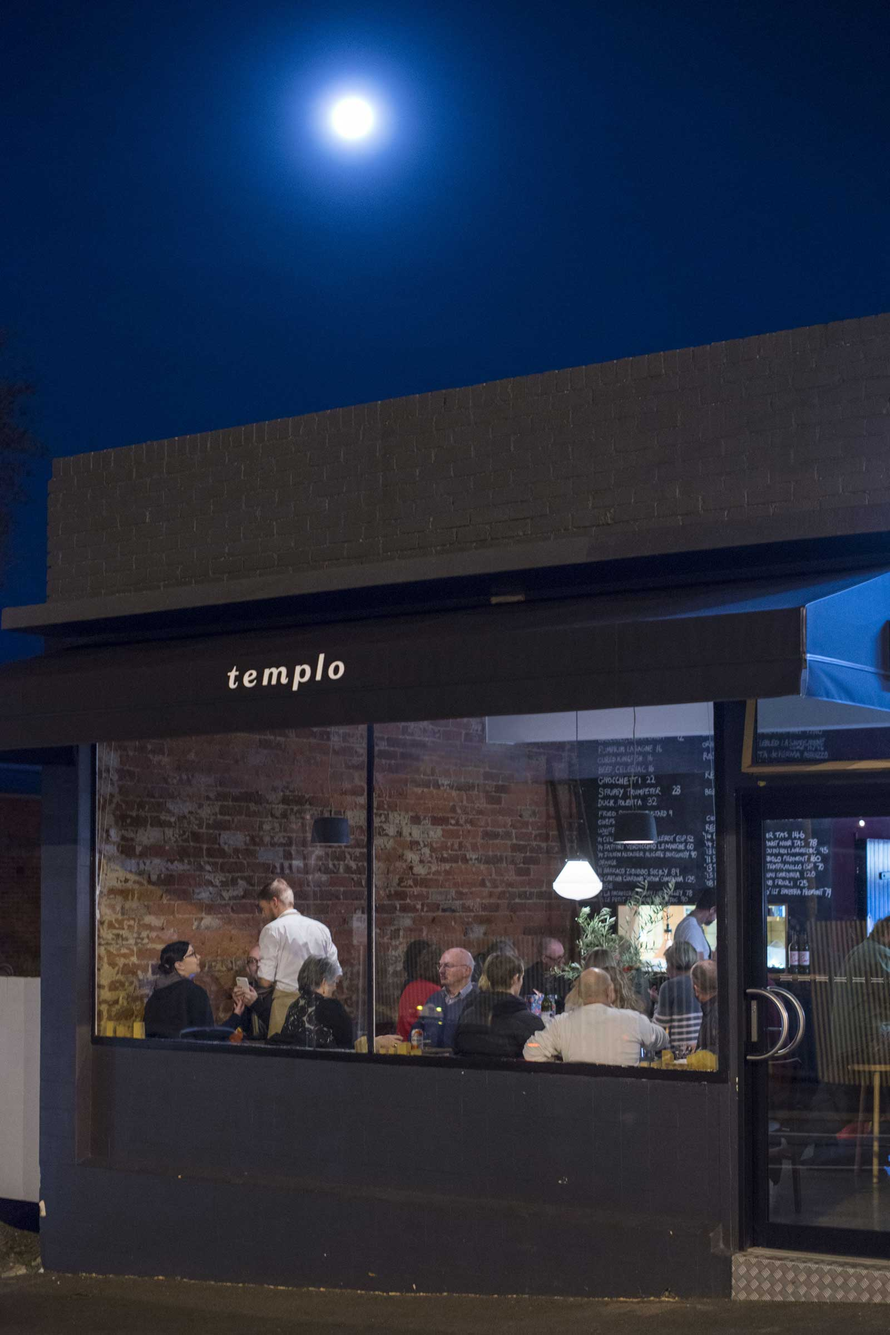
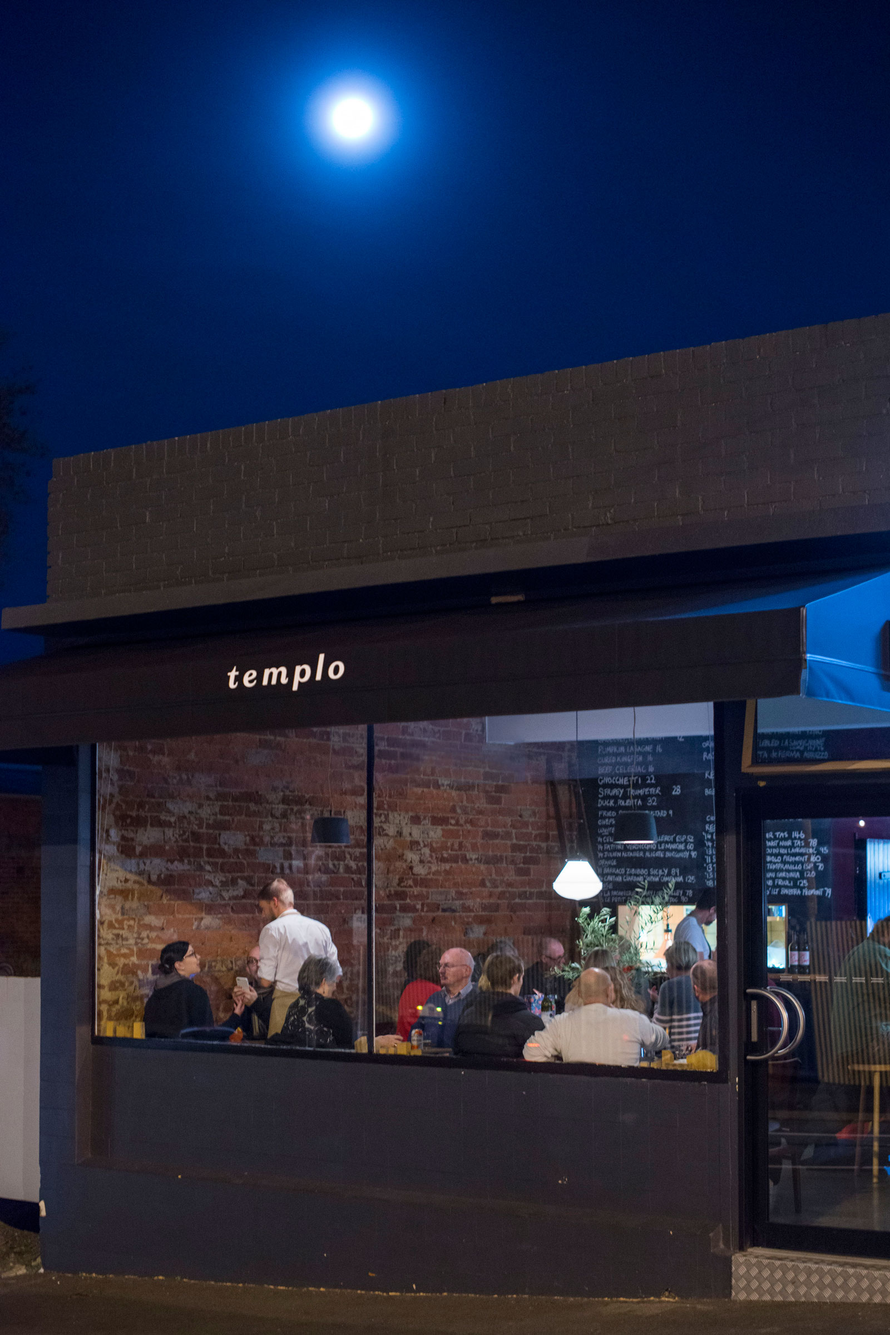
replace-images

diff --git a/index.html b/index.html
@@ -20,7 +20,7 @@
         <li><a href="#contact">Contact</a></li>
       </ul>
     </nav>
-    <img src="img/storefront-narrow.jpg" alt="Front of Templo">
+    <img src="img/storefront-narrow.png" alt="Front of Templo">
   </header>
 
   <main>
@@ -65,9 +65,9 @@
 
     <section id="contact">
       <h1>Contact Us</h1>
-      <a href="#" class="img"><img src="img/map.png" alt="Map showing location of Templo"></a>
+      <img src="img/templo-google-map.jpg" alt="Map showing location of Templo">
       <p>Phone: <a href="tel:03-62-347-659">(03) 62 347 659</a></p>
-      <p>98 Patrick St, Hobart Tas 7000</p>
+      <p><a href="https://www.google.com.au/maps/place/Templo/@-42.8804116,147.3172087,17z/data=!3m1!4b1!4m5!3m4!1s0xaa6e759a25f76843:0xc978db5031b84e71!8m2!3d-42.8804156!4d147.3194027?hl=en">98 Patrick St, Hobart Tas 7000</a></p>
       <p><a href="mailto:&#109;&#097;&#105;&#108;&#064;&#116;&#101;&#109;&#112;&#108;&#111;&#046;&#099;&#111;&#109;&#046;&#097;&#117;">&#109;&#097;&#105;&#108;&#064;&#116;&#101;&#109;&#112;&#108;&#111;&#046;&#099;&#111;&#109;&#046;&#097;&#117;</a></p>
       <p class="social">
         <a href="#" title="twitter"><svg viewBox="0 0 512 512"><path d="M419.6 168.6c-11.7 5.2-24.2 8.7-37.4 10.2 13.4-8.1 23.8-20.8 28.6-36 -12.6 7.5-26.5 12.9-41.3 15.8 -11.9-12.6-28.8-20.6-47.5-20.6 -42 0-72.9 39.2-63.4 79.9 -54.1-2.7-102.1-28.6-134.2-68 -17 29.2-8.8 67.5 20.1 86.9 -10.7-0.3-20.7-3.3-29.5-8.1 -0.7 30.2 20.9 58.4 52.2 64.6 -9.2 2.5-19.2 3.1-29.4 1.1 8.3 25.9 32.3 44.7 60.8 45.2 -27.4 21.4-61.8 31-96.4 27 28.8 18.5 63 29.2 99.8 29.2 120.8 0 189.1-102.1 185-193.6C399.9 193.1 410.9 181.7 419.6 168.6z"/></svg></a>
